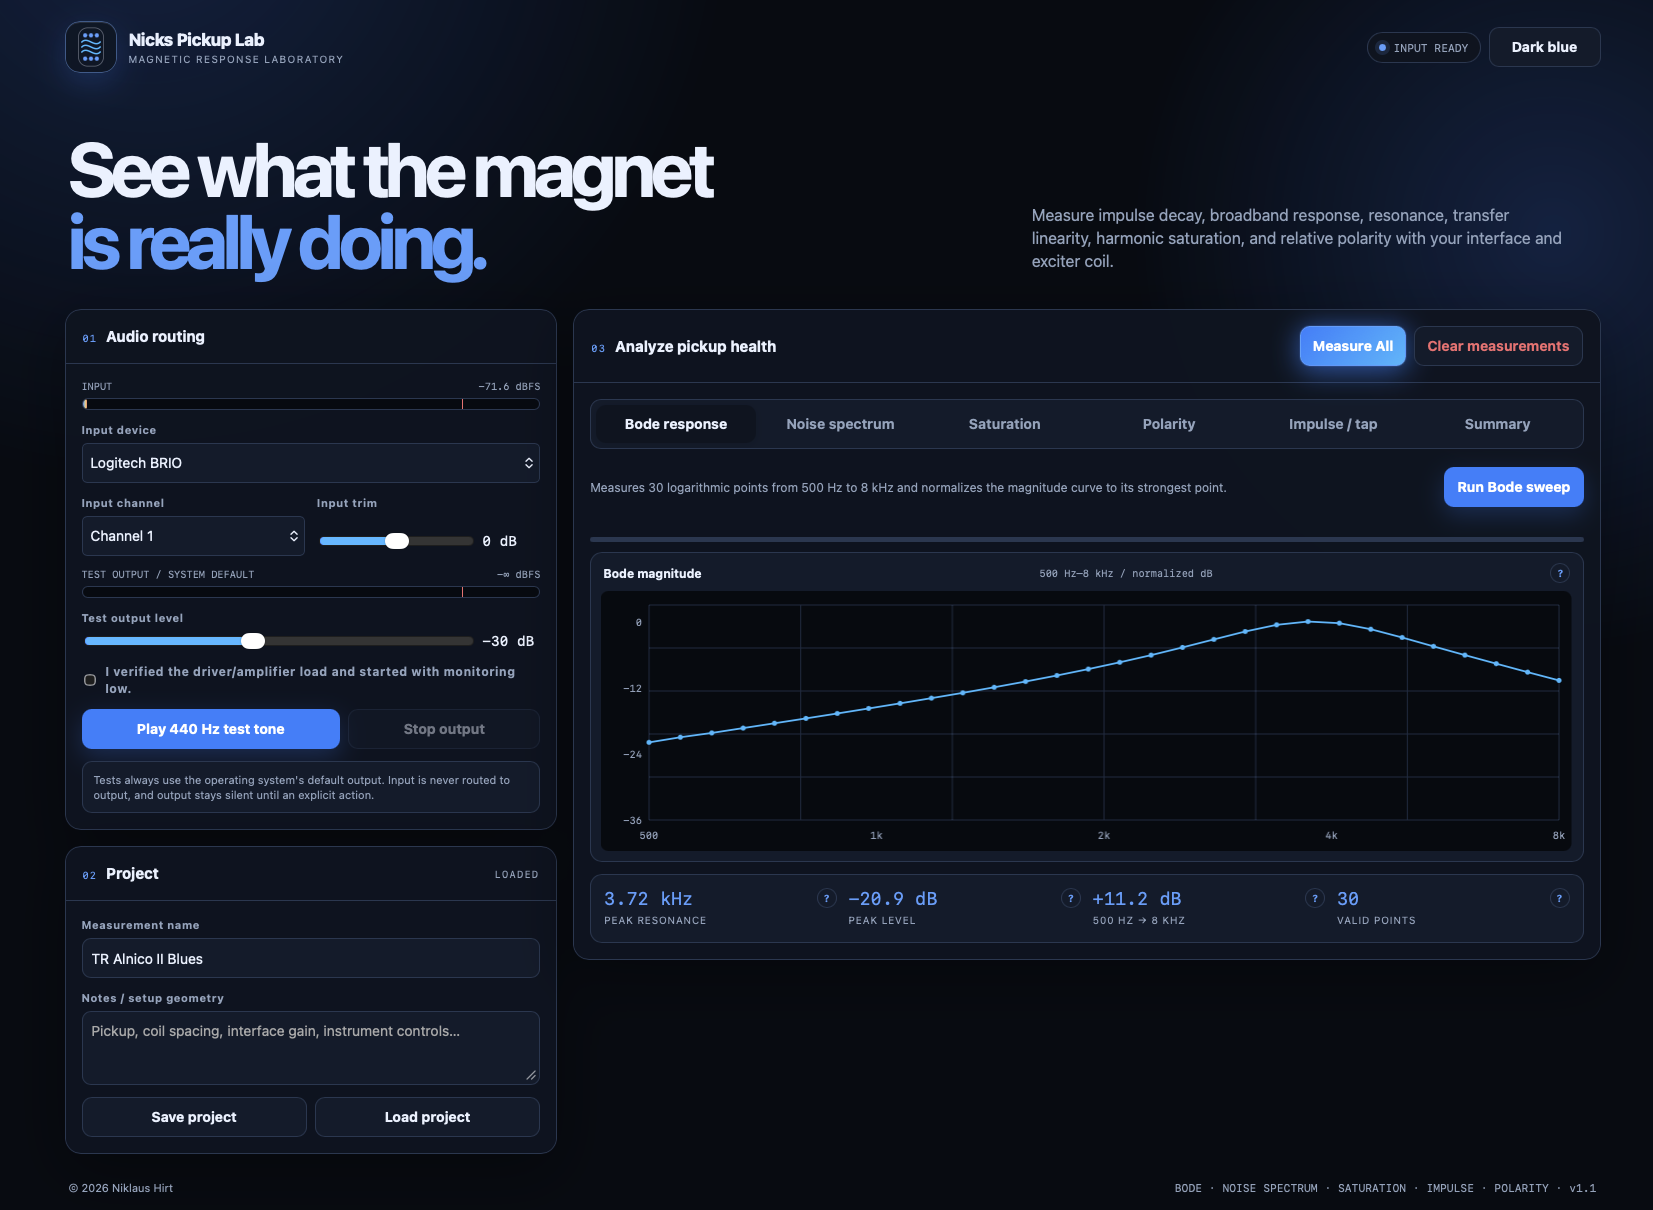
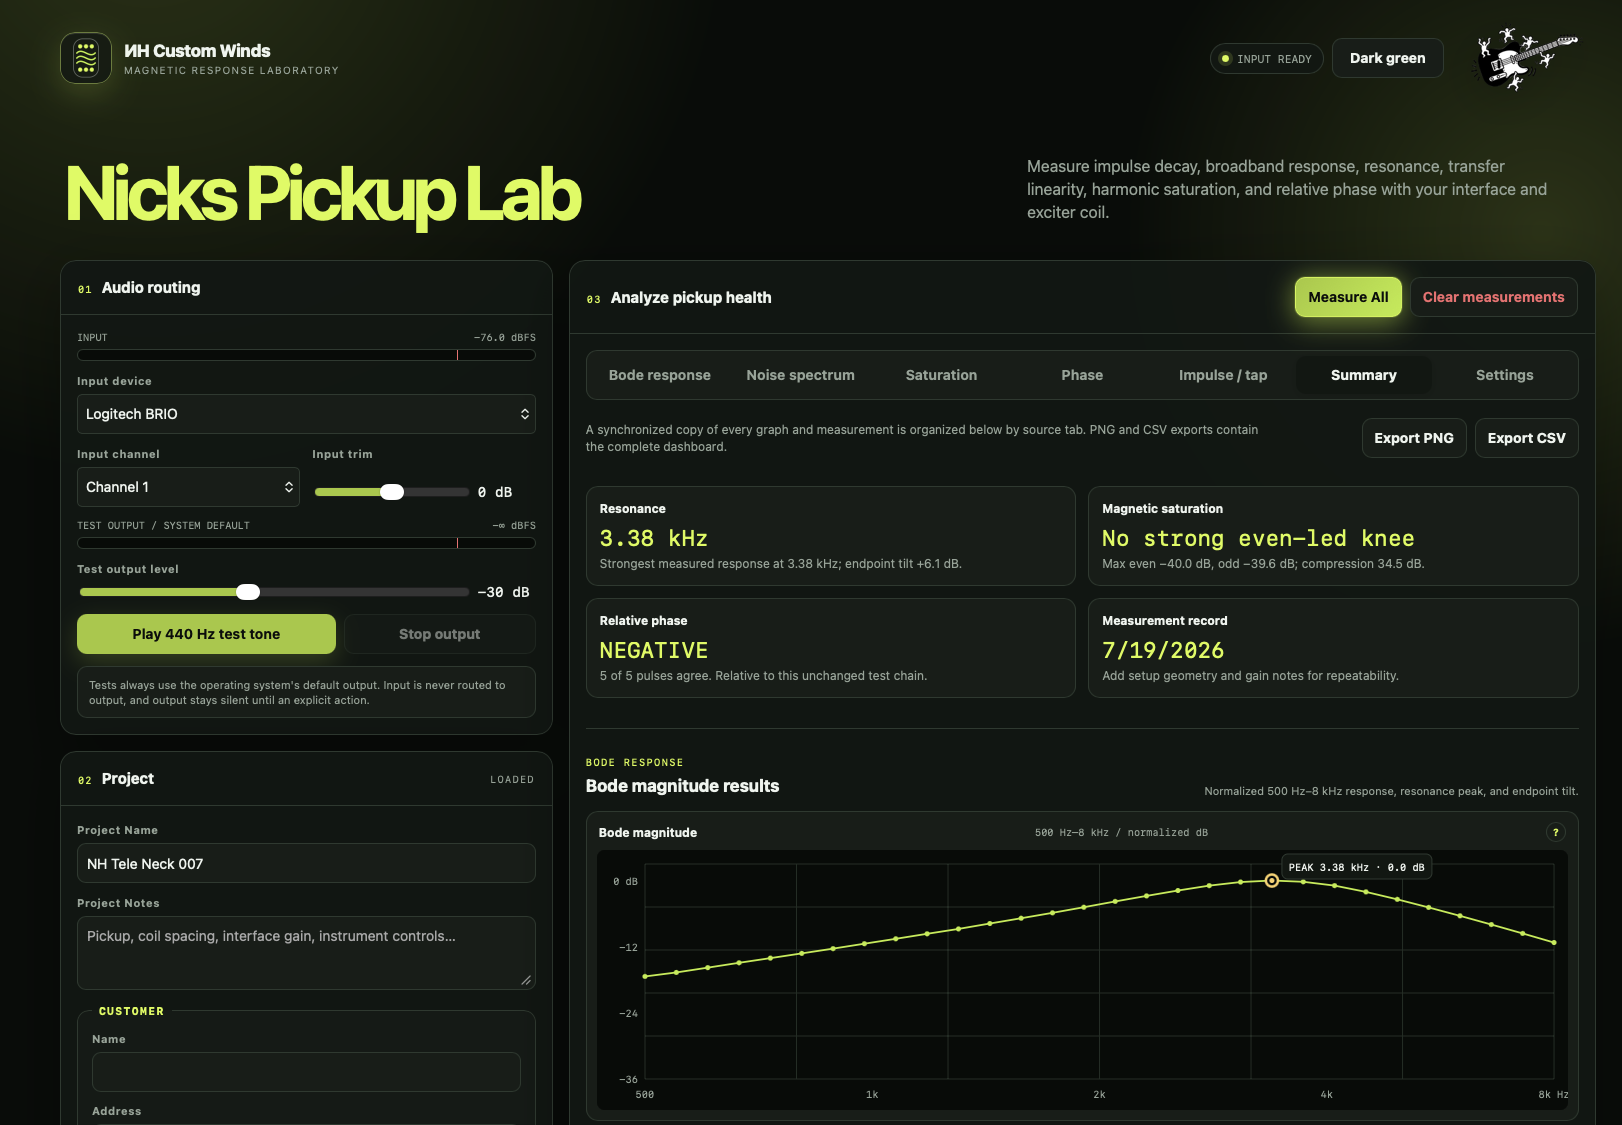
New order

diff --git a/index.html b/index.html
@@ -373,6 +373,12 @@
 
     .tool-content p { margin-bottom: 30px; color: var(--muted); line-height: 1.66; }
 
+    .tool-actions {
+      display: flex;
+      flex-wrap: wrap;
+      gap: 10px;
+    }
+
     .tool-visual {
       position: relative;
       min-width: 0;
@@ -509,7 +515,7 @@
       <div class="hero-copy">
         <div class="eyebrow">Browser-based audio workbench</div>
         <h1>Measure sound.<span>Shape the result.</span></h1>
-        <p>A focused collection of tools for guitar pickups, room acoustics, and impulse-response work. No installs, no clutter — just open your browser and start measuring.</p>
+        <p>A focused collection of partially AI generated tools for guitar pickups, room acoustics, and impulse-response work. No installs, no clutter — just open your browser and start measuring.</p>
         <div class="hero-actions">
           <a class="button" href="#tools">
             Explore the tools
@@ -532,7 +538,7 @@
     <div class="shell trust-strip reveal" aria-label="Product benefits">
       <div class="trust-item"><strong>100% browser-based</strong><span>Nothing to download or install.</span></div>
       <div class="trust-item"><strong>Built for practical work</strong><span>Focused tools, meaningful results.</span></div>
-      <div class="trust-item"><strong>Five audio workspaces</strong><span>From pickups to the whole room.</span></div>
+      <div class="trust-item"><strong>AI for Audio</strong><span>With the help of AI</span></div>
     </div>
 
     <section class="tools shell" id="tools">
@@ -542,18 +548,24 @@
       </div>
 
       <div class="tool-list">
-        <article class="tool-card reveal">
+        <article class="tool-card pickup reveal">
           <div class="tool-content">
-            <span class="tool-number">01 / FREQUENCY</span>
-            <h3>Guitar Pickup<br>Bode Plotter</h3>
-            <p>Sweep a compensated sine signal through your test rig, plot the normalized response, compare slots, and export clean plots or raw CSV data.</p>
-            <a class="button" href="https://niklaushirt.github.io/bodeplotter/" target="_blank" rel="noopener noreferrer">
-              Open Bode Plotter
-              <svg viewBox="0 0 24 24" fill="none" stroke="currentColor" stroke-width="2.2" stroke-linecap="round" stroke-linejoin="round" aria-hidden="true"><path d="m5 12 14 0M13 6l6 6-6 6"/></svg>
-            </a>
+            <span class="tool-number">01 / WORKBENCH</span>
+            <h3>Pickup Lab</h3>
+            <p>Inspect live waveforms and spectra, monitor detailed metrics, generate test signals, and run Bode, polarity, and magnetic-saturation measurements.</p>
+            <div class="tool-actions">
+              <a class="button" href="https://niklaushirt.github.io/pickuplab/" target="_blank" rel="noopener noreferrer">
+                Open Pickup Lab
+                <svg viewBox="0 0 24 24" fill="none" stroke="currentColor" stroke-width="2.2" stroke-linecap="round" stroke-linejoin="round" aria-hidden="true"><path d="m5 12 14 0M13 6l6 6-6 6"/></svg>
+              </a>
+              <a class="button secondary" href="https://github.com/niklaushirt/pickuplab" target="_blank" rel="noopener noreferrer">
+                Source code
+                <svg viewBox="0 0 24 24" fill="currentColor" aria-hidden="true"><path d="M12 .8a11.2 11.2 0 0 0-3.54 21.83c.56.1.77-.24.77-.54v-2.16c-3.12.68-3.78-1.32-3.78-1.32-.51-1.3-1.25-1.65-1.25-1.65-1.02-.7.08-.69.08-.69 1.13.08 1.72 1.16 1.72 1.16 1 1.72 2.63 1.22 3.27.93.1-.73.39-1.22.71-1.5-2.49-.28-5.11-1.25-5.11-5.54 0-1.23.44-2.23 1.16-3.02-.12-.28-.5-1.43.11-2.98 0 0 .94-.3 3.08 1.15A10.72 10.72 0 0 1 12 6.1c.95 0 1.9.13 2.79.38 2.14-1.45 3.08-1.15 3.08-1.15.61 1.55.23 2.7.11 2.98.72.79 1.16 1.8 1.16 3.02 0 4.3-2.63 5.25-5.13 5.53.4.35.76 1.03.76 2.08v3.15c0 .3.2.65.77.54A11.2 11.2 0 0 0 12 .8Z"/></svg>
+              </a>
+            </div>
           </div>
-          <a class="tool-visual" href="https://niklaushirt.github.io/bodeplotter/" target="_blank" rel="noopener noreferrer" aria-label="Open Guitar Pickup Bode Plotter">
-            <img src="assets/screenshots/bodeplotter.png" alt="Guitar Pickup Bode Plotter frequency response interface" loading="lazy">
+          <a class="tool-visual" href="https://niklaushirt.github.io/pickuplab/" target="_blank" rel="noopener noreferrer" aria-label="Open Pickup Lab">
+            <img src="assets/screenshots/pickuplab.png" alt="Pickup Lab browser measurement workbench" loading="lazy">
           </a>
         </article>
 
@@ -562,40 +574,37 @@
             <span class="tool-number">02 / ACOUSTICS</span>
             <h3>RoomScope</h3>
             <p>Measure a listening position and turn it into frequency, impulse, decay, reflection, room-mode, and practical EQ guidance.</p>
-            <a class="button" href="https://niklaushirt.github.io/roomscope/" target="_blank" rel="noopener noreferrer">
-              Open RoomScope
-              <svg viewBox="0 0 24 24" fill="none" stroke="currentColor" stroke-width="2.2" stroke-linecap="round" stroke-linejoin="round" aria-hidden="true"><path d="m5 12 14 0M13 6l6 6-6 6"/></svg>
-            </a>
+            <div class="tool-actions">
+              <a class="button" href="https://niklaushirt.github.io/roomscope/" target="_blank" rel="noopener noreferrer">
+                Open RoomScope
+                <svg viewBox="0 0 24 24" fill="none" stroke="currentColor" stroke-width="2.2" stroke-linecap="round" stroke-linejoin="round" aria-hidden="true"><path d="m5 12 14 0M13 6l6 6-6 6"/></svg>
+              </a>
+              <a class="button secondary" href="https://github.com/niklaushirt/roomscope" target="_blank" rel="noopener noreferrer">
+                Source code
+                <svg viewBox="0 0 24 24" fill="currentColor" aria-hidden="true"><path d="M12 .8a11.2 11.2 0 0 0-3.54 21.83c.56.1.77-.24.77-.54v-2.16c-3.12.68-3.78-1.32-3.78-1.32-.51-1.3-1.25-1.65-1.25-1.65-1.02-.7.08-.69.08-.69 1.13.08 1.72 1.16 1.72 1.16 1 1.72 2.63 1.22 3.27.93.1-.73.39-1.22.71-1.5-2.49-.28-5.11-1.25-5.11-5.54 0-1.23.44-2.23 1.16-3.02-.12-.28-.5-1.43.11-2.98 0 0 .94-.3 3.08 1.15A10.72 10.72 0 0 1 12 6.1c.95 0 1.9.13 2.79.38 2.14-1.45 3.08-1.15 3.08-1.15.61 1.55.23 2.7.11 2.98.72.79 1.16 1.8 1.16 3.02 0 4.3-2.63 5.25-5.13 5.53.4.35.76 1.03.76 2.08v3.15c0 .3.2.65.77.54A11.2 11.2 0 0 0 12 .8Z"/></svg>
+              </a>
+            </div>
           </div>
           <a class="tool-visual" href="https://niklaushirt.github.io/roomscope/" target="_blank" rel="noopener noreferrer" aria-label="Open RoomScope">
             <img src="assets/screenshots/roomscope.png" alt="RoomScope room-acoustics measurement interface" loading="lazy">
           </a>
         </article>
 
-        <article class="tool-card pickup reveal">
-          <div class="tool-content">
-            <span class="tool-number">03 / WORKBENCH</span>
-            <h3>Pickup Lab</h3>
-            <p>Inspect live waveforms and spectra, monitor detailed metrics, generate test signals, and run Bode, polarity, and magnetic-saturation measurements.</p>
-            <a class="button" href="https://niklaushirt.github.io/pickuplab/" target="_blank" rel="noopener noreferrer">
-              Open Pickup Lab
-              <svg viewBox="0 0 24 24" fill="none" stroke="currentColor" stroke-width="2.2" stroke-linecap="round" stroke-linejoin="round" aria-hidden="true"><path d="m5 12 14 0M13 6l6 6-6 6"/></svg>
-            </a>
-          </div>
-          <a class="tool-visual" href="https://niklaushirt.github.io/pickuplab/" target="_blank" rel="noopener noreferrer" aria-label="Open Pickup Lab">
-            <img src="assets/screenshots/pickuplab.png" alt="Pickup Lab browser measurement workbench" loading="lazy">
-          </a>
-        </article>
-
         <article class="tool-card reveal">
           <div class="tool-content">
-            <span class="tool-number">04 / BALANCE</span>
+            <span class="tool-number">03 / BALANCE</span>
             <h3>STRINGFIELD</h3>
             <p>Map every string, spot weak or dominant positions, and shape a precise output contour across your guitar pickup.</p>
-            <a class="button" href="https://niklaushirt.github.io/stringfield/" target="_blank" rel="noopener noreferrer">
-              Open STRINGFIELD
-              <svg viewBox="0 0 24 24" fill="none" stroke="currentColor" stroke-width="2.2" stroke-linecap="round" stroke-linejoin="round" aria-hidden="true"><path d="m5 12 14 0M13 6l6 6-6 6"/></svg>
-            </a>
+            <div class="tool-actions">
+              <a class="button" href="https://niklaushirt.github.io/stringfield/" target="_blank" rel="noopener noreferrer">
+                Open STRINGFIELD
+                <svg viewBox="0 0 24 24" fill="none" stroke="currentColor" stroke-width="2.2" stroke-linecap="round" stroke-linejoin="round" aria-hidden="true"><path d="m5 12 14 0M13 6l6 6-6 6"/></svg>
+              </a>
+              <a class="button secondary" href="https://github.com/niklaushirt/stringfield" target="_blank" rel="noopener noreferrer">
+                Source code
+                <svg viewBox="0 0 24 24" fill="currentColor" aria-hidden="true"><path d="M12 .8a11.2 11.2 0 0 0-3.54 21.83c.56.1.77-.24.77-.54v-2.16c-3.12.68-3.78-1.32-3.78-1.32-.51-1.3-1.25-1.65-1.25-1.65-1.02-.7.08-.69.08-.69 1.13.08 1.72 1.16 1.72 1.16 1 1.72 2.63 1.22 3.27.93.1-.73.39-1.22.71-1.5-2.49-.28-5.11-1.25-5.11-5.54 0-1.23.44-2.23 1.16-3.02-.12-.28-.5-1.43.11-2.98 0 0 .94-.3 3.08 1.15A10.72 10.72 0 0 1 12 6.1c.95 0 1.9.13 2.79.38 2.14-1.45 3.08-1.15 3.08-1.15.61 1.55.23 2.7.11 2.98.72.79 1.16 1.8 1.16 3.02 0 4.3-2.63 5.25-5.13 5.53.4.35.76 1.03.76 2.08v3.15c0 .3.2.65.77.54A11.2 11.2 0 0 0 12 .8Z"/></svg>
+              </a>
+            </div>
           </div>
           <a class="tool-visual" href="https://niklaushirt.github.io/stringfield/" target="_blank" rel="noopener noreferrer" aria-label="Open STRINGFIELD">
             <img src="assets/screenshots/stringfield.png" alt="STRINGFIELD pickup output balancer interface" loading="lazy">
@@ -604,13 +613,40 @@
 
         <article class="tool-card reveal">
           <div class="tool-content">
+            <span class="tool-number">04 / FREQUENCY</span>
+            <h3>Guitar Pickup<br>Bode Plotter</h3>
+            <p>Sweep a compensated sine signal through your test rig, plot the normalized response, compare slots, and export clean plots or raw CSV data.</p>
+            <div class="tool-actions">
+              <a class="button" href="https://niklaushirt.github.io/bodeplotter/" target="_blank" rel="noopener noreferrer">
+                Open Bode Plotter
+                <svg viewBox="0 0 24 24" fill="none" stroke="currentColor" stroke-width="2.2" stroke-linecap="round" stroke-linejoin="round" aria-hidden="true"><path d="m5 12 14 0M13 6l6 6-6 6"/></svg>
+              </a>
+              <a class="button secondary" href="https://github.com/niklaushirt/bodeplotter" target="_blank" rel="noopener noreferrer">
+                Source code
+                <svg viewBox="0 0 24 24" fill="currentColor" aria-hidden="true"><path d="M12 .8a11.2 11.2 0 0 0-3.54 21.83c.56.1.77-.24.77-.54v-2.16c-3.12.68-3.78-1.32-3.78-1.32-.51-1.3-1.25-1.65-1.25-1.65-1.02-.7.08-.69.08-.69 1.13.08 1.72 1.16 1.72 1.16 1 1.72 2.63 1.22 3.27.93.1-.73.39-1.22.71-1.5-2.49-.28-5.11-1.25-5.11-5.54 0-1.23.44-2.23 1.16-3.02-.12-.28-.5-1.43.11-2.98 0 0 .94-.3 3.08 1.15A10.72 10.72 0 0 1 12 6.1c.95 0 1.9.13 2.79.38 2.14-1.45 3.08-1.15 3.08-1.15.61 1.55.23 2.7.11 2.98.72.79 1.16 1.8 1.16 3.02 0 4.3-2.63 5.25-5.13 5.53.4.35.76 1.03.76 2.08v3.15c0 .3.2.65.77.54A11.2 11.2 0 0 0 12 .8Z"/></svg>
+              </a>
+            </div>
+          </div>
+          <a class="tool-visual" href="https://niklaushirt.github.io/bodeplotter/" target="_blank" rel="noopener noreferrer" aria-label="Open Guitar Pickup Bode Plotter">
+            <img src="assets/screenshots/bodeplotter.png" alt="Guitar Pickup Bode Plotter frequency response interface" loading="lazy">
+          </a>
+        </article>
+
+        <article class="tool-card reveal">
+          <div class="tool-content">
             <span class="tool-number">05 / IMPULSE</span>
             <h3>IR Stacker</h3>
             <p>Layer impulse responses, set level, pan, delay, and polarity, auto-align with cross-correlation, then preview and export the final WAV.</p>
-            <a class="button" href="https://niklaushirt.github.io/irstacker/" target="_blank" rel="noopener noreferrer">
-              Open IR Stacker
-              <svg viewBox="0 0 24 24" fill="none" stroke="currentColor" stroke-width="2.2" stroke-linecap="round" stroke-linejoin="round" aria-hidden="true"><path d="m5 12 14 0M13 6l6 6-6 6"/></svg>
-            </a>
+            <div class="tool-actions">
+              <a class="button" href="https://niklaushirt.github.io/irstacker/" target="_blank" rel="noopener noreferrer">
+                Open IR Stacker
+                <svg viewBox="0 0 24 24" fill="none" stroke="currentColor" stroke-width="2.2" stroke-linecap="round" stroke-linejoin="round" aria-hidden="true"><path d="m5 12 14 0M13 6l6 6-6 6"/></svg>
+              </a>
+              <a class="button secondary" href="https://github.com/niklaushirt/irstacker" target="_blank" rel="noopener noreferrer">
+                Source code
+                <svg viewBox="0 0 24 24" fill="currentColor" aria-hidden="true"><path d="M12 .8a11.2 11.2 0 0 0-3.54 21.83c.56.1.77-.24.77-.54v-2.16c-3.12.68-3.78-1.32-3.78-1.32-.51-1.3-1.25-1.65-1.25-1.65-1.02-.7.08-.69.08-.69 1.13.08 1.72 1.16 1.72 1.16 1 1.72 2.63 1.22 3.27.93.1-.73.39-1.22.71-1.5-2.49-.28-5.11-1.25-5.11-5.54 0-1.23.44-2.23 1.16-3.02-.12-.28-.5-1.43.11-2.98 0 0 .94-.3 3.08 1.15A10.72 10.72 0 0 1 12 6.1c.95 0 1.9.13 2.79.38 2.14-1.45 3.08-1.15 3.08-1.15.61 1.55.23 2.7.11 2.98.72.79 1.16 1.8 1.16 3.02 0 4.3-2.63 5.25-5.13 5.53.4.35.76 1.03.76 2.08v3.15c0 .3.2.65.77.54A11.2 11.2 0 0 0 12 .8Z"/></svg>
+              </a>
+            </div>
           </div>
           <a class="tool-visual" href="https://niklaushirt.github.io/irstacker/" target="_blank" rel="noopener noreferrer" aria-label="Open IR Stacker">
             <img src="assets/screenshots/irstacker.png" alt="IR Stacker impulse-response mixing interface" loading="lazy">